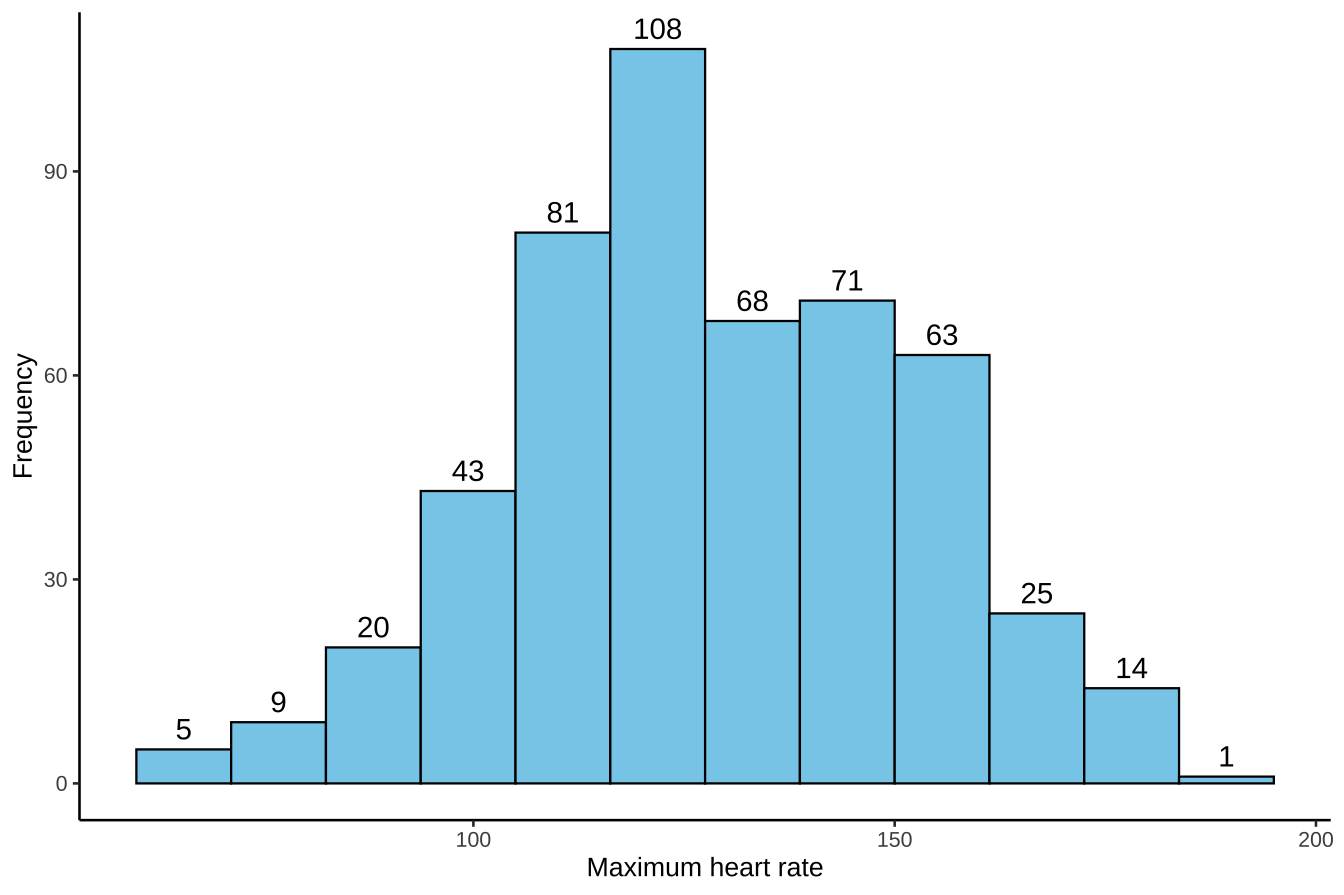
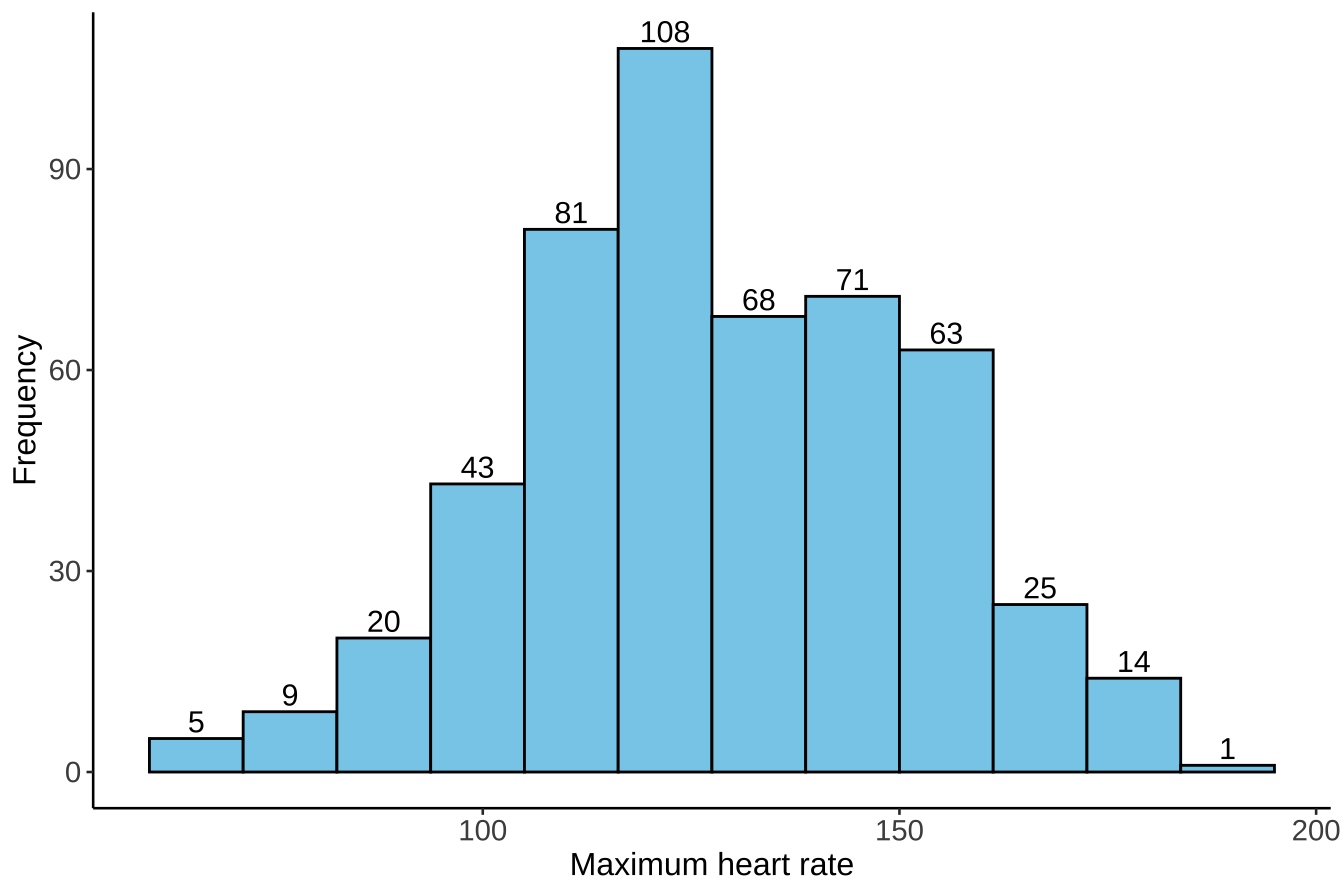
commit

diff --git a/_book/quat-data-stat-desc.html b/_book/quat-data-stat-desc.html
@@ -107,6 +107,35 @@ pre > code.sourceCode > span > a:first-child::before { text-decoration: underlin
 }</script>
 <style>html{ scroll-behavior: smooth; }</style>
 
+  <script src="https://polyfill.io/v3/polyfill.min.js?features=es6"></script>
+  <script src="https://cdn.jsdelivr.net/npm/mathjax@3/es5/tex-chtml-full.js" type="text/javascript"></script>
+
+<script type="text/javascript">
+const typesetMath = (el) => {
+  if (window.MathJax) {
+    // MathJax Typeset
+    window.MathJax.typeset([el]);
+  } else if (window.katex) {
+    // KaTeX Render
+    var mathElements = el.getElementsByClassName("math");
+    var macros = [];
+    for (var i = 0; i < mathElements.length; i++) {
+      var texText = mathElements[i].firstChild;
+      if (mathElements[i].tagName == "SPAN") {
+        window.katex.render(texText.data, mathElements[i], {
+          displayMode: mathElements[i].classList.contains('display'),
+          throwOnError: false,
+          macros: macros,
+          fleqn: false
+        });
+      }
+    }
+  }
+}
+window.Quarto = {
+  typesetMath
+};
+</script>
 
 </head>
 
@@ -284,7 +313,7 @@ pre > code.sourceCode > span > a:first-child::before { text-decoration: underlin
   <li><a href="#measures-of-dispersion" id="toc-measures-of-dispersion" class="nav-link" data-scroll-target="#measures-of-dispersion"><span class="header-section-number">2.5</span> Measures of dispersion</a>
   <ul class="collapse">
   <li><a href="#range" id="toc-range" class="nav-link" data-scroll-target="#range"><span class="header-section-number">2.5.1</span> Range</a></li>
-  <li><a href="#quartile-and-percentile" id="toc-quartile-and-percentile" class="nav-link" data-scroll-target="#quartile-and-percentile"><span class="header-section-number">2.5.2</span> <strong>Quartile</strong> and <strong>percentile</strong></a></li>
+  <li><a href="#interquartile-range-iqr" id="toc-interquartile-range-iqr" class="nav-link" data-scroll-target="#interquartile-range-iqr"><span class="header-section-number">2.5.2</span> Interquartile Range (IQR)</a></li>
   <li><a href="#variance" id="toc-variance" class="nav-link" data-scroll-target="#variance"><span class="header-section-number">2.5.3</span> Variance</a></li>
   <li><a href="#standard-deviation" id="toc-standard-deviation" class="nav-link" data-scroll-target="#standard-deviation"><span class="header-section-number">2.5.4</span> <strong>Standard deviation</strong></a></li>
   <li><a href="#变异系数" id="toc-变异系数" class="nav-link" data-scroll-target="#变异系数"><span class="header-section-number">2.5.5</span> 变异系数</a></li>
@@ -522,22 +551,26 @@ pre > code.sourceCode > span > a:first-child::before { text-decoration: underlin
 <span id="cb11-3"><a href="#cb11-3" aria-hidden="true" tabindex="-1"></a>    <span class="at">fill =</span> <span class="st">"skyblue"</span>, </span>
 <span id="cb11-4"><a href="#cb11-4" aria-hidden="true" tabindex="-1"></a>    <span class="at">stat =</span> <span class="st">"bin"</span>,</span>
 <span id="cb11-5"><a href="#cb11-5" aria-hidden="true" tabindex="-1"></a>    <span class="at">color =</span> <span class="st">"black"</span>,</span>
-<span id="cb11-6"><a href="#cb11-6" aria-hidden="true" tabindex="-1"></a>    <span class="at">linewidth =</span> <span class="fl">0.4</span>,</span>
-<span id="cb11-7"><a href="#cb11-7" aria-hidden="true" tabindex="-1"></a>    <span class="at">breaks =</span> breaks,</span>
-<span id="cb11-8"><a href="#cb11-8" aria-hidden="true" tabindex="-1"></a>    <span class="at">closed =</span> <span class="st">"left"</span></span>
-<span id="cb11-9"><a href="#cb11-9" aria-hidden="true" tabindex="-1"></a>  ) <span class="sc">+</span></span>
-<span id="cb11-10"><a href="#cb11-10" aria-hidden="true" tabindex="-1"></a>  <span class="fu">stat_bin</span>(</span>
-<span id="cb11-11"><a href="#cb11-11" aria-hidden="true" tabindex="-1"></a>    <span class="at">geom =</span> <span class="st">"text"</span>, </span>
-<span id="cb11-12"><a href="#cb11-12" aria-hidden="true" tabindex="-1"></a>    <span class="fu">aes</span>(<span class="at">label =</span> <span class="fu">after_stat</span>(count)),</span>
-<span id="cb11-13"><a href="#cb11-13" aria-hidden="true" tabindex="-1"></a>    <span class="at">breaks =</span> breaks, </span>
-<span id="cb11-14"><a href="#cb11-14" aria-hidden="true" tabindex="-1"></a>    <span class="at">closed =</span> <span class="st">"left"</span>,</span>
-<span id="cb11-15"><a href="#cb11-15" aria-hidden="true" tabindex="-1"></a>    <span class="at">vjust =</span> <span class="sc">-</span> <span class="fl">0.5</span></span>
+<span id="cb11-6"><a href="#cb11-6" aria-hidden="true" tabindex="-1"></a>    <span class="at">breaks =</span> breaks,</span>
+<span id="cb11-7"><a href="#cb11-7" aria-hidden="true" tabindex="-1"></a>    <span class="at">closed =</span> <span class="st">"left"</span></span>
+<span id="cb11-8"><a href="#cb11-8" aria-hidden="true" tabindex="-1"></a>  ) <span class="sc">+</span></span>
+<span id="cb11-9"><a href="#cb11-9" aria-hidden="true" tabindex="-1"></a>  <span class="fu">stat_bin</span>(</span>
+<span id="cb11-10"><a href="#cb11-10" aria-hidden="true" tabindex="-1"></a>    <span class="at">geom =</span> <span class="st">"text"</span>, </span>
+<span id="cb11-11"><a href="#cb11-11" aria-hidden="true" tabindex="-1"></a>    <span class="fu">aes</span>(<span class="at">label =</span> <span class="fu">after_stat</span>(count)),</span>
+<span id="cb11-12"><a href="#cb11-12" aria-hidden="true" tabindex="-1"></a>    <span class="at">breaks =</span> breaks, </span>
+<span id="cb11-13"><a href="#cb11-13" aria-hidden="true" tabindex="-1"></a>    <span class="at">closed =</span> <span class="st">"left"</span>,</span>
+<span id="cb11-14"><a href="#cb11-14" aria-hidden="true" tabindex="-1"></a>    <span class="at">size =</span> <span class="dv">4</span>,</span>
+<span id="cb11-15"><a href="#cb11-15" aria-hidden="true" tabindex="-1"></a>    <span class="at">vjust =</span> <span class="sc">-</span> <span class="fl">0.3</span></span>
 <span id="cb11-16"><a href="#cb11-16" aria-hidden="true" tabindex="-1"></a>  ) <span class="sc">+</span></span>
 <span id="cb11-17"><a href="#cb11-17" aria-hidden="true" tabindex="-1"></a>  <span class="fu">labs</span>(<span class="at">x =</span> <span class="st">"Maximum heart rate"</span>, <span class="at">y =</span> <span class="st">"Frequency"</span>) <span class="sc">+</span></span>
 <span id="cb11-18"><a href="#cb11-18" aria-hidden="true" tabindex="-1"></a>  <span class="fu">theme</span>(</span>
-<span id="cb11-19"><a href="#cb11-19" aria-hidden="true" tabindex="-1"></a>    <span class="at">panel.background =</span> <span class="fu">element_blank</span>(),        </span>
-<span id="cb11-20"><a href="#cb11-20" aria-hidden="true" tabindex="-1"></a>    <span class="at">axis.line =</span> <span class="fu">element_line</span>(<span class="at">color =</span> <span class="st">"black"</span>) </span>
-<span id="cb11-21"><a href="#cb11-21" aria-hidden="true" tabindex="-1"></a>  )</span></code><button title="Copy to Clipboard" class="code-copy-button"><i class="bi"></i></button></pre></div>
+<span id="cb11-19"><a href="#cb11-19" aria-hidden="true" tabindex="-1"></a>    <span class="at">axis.title.x =</span> <span class="fu">element_text</span>(<span class="at">size =</span> <span class="dv">12</span>), </span>
+<span id="cb11-20"><a href="#cb11-20" aria-hidden="true" tabindex="-1"></a>    <span class="at">axis.title.y =</span> <span class="fu">element_text</span>(<span class="at">size =</span> <span class="dv">12</span>), </span>
+<span id="cb11-21"><a href="#cb11-21" aria-hidden="true" tabindex="-1"></a>    <span class="at">axis.text.x =</span> <span class="fu">element_text</span>(<span class="at">size =</span> <span class="dv">11</span>),  </span>
+<span id="cb11-22"><a href="#cb11-22" aria-hidden="true" tabindex="-1"></a>    <span class="at">axis.text.y =</span> <span class="fu">element_text</span>(<span class="at">size =</span> <span class="dv">11</span>),</span>
+<span id="cb11-23"><a href="#cb11-23" aria-hidden="true" tabindex="-1"></a>    <span class="at">panel.background =</span> <span class="fu">element_blank</span>(),        </span>
+<span id="cb11-24"><a href="#cb11-24" aria-hidden="true" tabindex="-1"></a>    <span class="at">axis.line =</span> <span class="fu">element_line</span>(<span class="at">color =</span> <span class="st">"black"</span>) </span>
+<span id="cb11-25"><a href="#cb11-25" aria-hidden="true" tabindex="-1"></a>  )</span></code><button title="Copy to Clipboard" class="code-copy-button"><i class="bi"></i></button></pre></div>
 <div class="cell-output-display">
 <div>
 <figure class="figure">
@@ -550,10 +583,19 @@ pre > code.sourceCode > span > a:first-child::before { text-decoration: underlin
 </section>
 <section id="measures-of-central-tendency" class="level2" data-number="2.4">
 <h2 data-number="2.4" class="anchored" data-anchor-id="measures-of-central-tendency"><span class="header-section-number">2.4</span> Measures of central tendency</h2>
-<p>Central tendency provides a single value representing the center of the data.</p>
+<p>Central tendency is a statistical concept that refers to the measure of the center or typical value in a data set. It provides a summary of the data with a single value that represents the middle or average of the data. The most common measures of central tendency are:</p>
 <section id="mean" class="level3" data-number="2.4.1">
 <h3 data-number="2.4.1" class="anchored" data-anchor-id="mean"><span class="header-section-number">2.4.1</span> Mean</h3>
-<p><strong>例2-2</strong> 计算例2-1某医院138名正常成年女性的红细胞数的均数。</p>
+<p>The arithmetic average of all values. It’s calculated by summing all the values and dividing by the number of values.</p>
+<p>For a population:</p>
+<p><span class="math display">\[
+\mu = \frac{\sum X_i}{N}
+\]</span></p>
+<p>For a sample:</p>
+<p><span class="math display">\[
+\bar{X} = \frac{\sum X_i}{n}
+\]</span></p>
+<p>where <span class="math inline">\(X_i\)</span> represents each value, and <span class="math inline">\(N\)</span> and <span class="math inline">\(n\)</span> are the sizes of the population and sample, respectively.</p>
 <div class="cell">
 <div class="sourceCode cell-code" id="cb12"><pre class="sourceCode r code-with-copy"><code class="sourceCode r"><span id="cb12-1"><a href="#cb12-1" aria-hidden="true" tabindex="-1"></a>max_hr <span class="sc">|&gt;</span> </span>
 <span id="cb12-2"><a href="#cb12-2" aria-hidden="true" tabindex="-1"></a>  <span class="fu">pull</span>() <span class="sc">|&gt;</span> </span>
@@ -564,7 +606,12 @@ pre > code.sourceCode > span > a:first-child::before { text-decoration: underlin
 </section>
 <section id="median" class="level3" data-number="2.4.2">
 <h3 data-number="2.4.2" class="anchored" data-anchor-id="median"><span class="header-section-number">2.4.2</span> Median</h3>
-<p>计算例2-1某医院138名正常成年女性的红细胞数的中位数和四分位数：</p>
+<p>The middle value in a data set when the values are sorted in ascending order. If there is an even number of values, the median is the average of the two middle values. To find the median:</p>
+<ul>
+<li>Sort the data set.</li>
+<li>If the number of observations N is odd, the median is the middle value.</li>
+<li>If N is even, the median is the average of the two central values.</li>
+</ul>
 <div class="cell">
 <div class="sourceCode cell-code" id="cb13"><pre class="sourceCode r code-with-copy"><code class="sourceCode r"><span id="cb13-1"><a href="#cb13-1" aria-hidden="true" tabindex="-1"></a>max_hr <span class="sc">|&gt;</span> </span>
 <span id="cb13-2"><a href="#cb13-2" aria-hidden="true" tabindex="-1"></a>  <span class="fu">pull</span>() <span class="sc">|&gt;</span> </span>
@@ -575,65 +622,114 @@ pre > code.sourceCode > span > a:first-child::before { text-decoration: underlin
 </section>
 <section id="measures-of-dispersion" class="level2" data-number="2.5">
 <h2 data-number="2.5" class="anchored" data-anchor-id="measures-of-dispersion"><span class="header-section-number">2.5</span> Measures of dispersion</h2>
+<p>Dispersion or variability, describe the spread or dispersion of data points in a data set. They provide insight into how much individual data points differ from the central value (mean, median, etc.). Common measures of dispersion include:</p>
+<pre><code>
+3.  Standard Deviation:
+•   The square root of the variance, providing a measure of spread in the same units as the data.
+•   For a population:  \text{Standard Deviation} (\sigma) = \sqrt{\frac{1}{N} \sum_{i=1}^N (x_i - \mu)^2} 
+•   For a sample:  \text{Sample Standard Deviation} (s) = \sqrt{\frac{1}{n-1} \sum_{i=1}^n (x_i - \bar{x})^2} 
+4.  Interquartile Range (IQR):
+•   The range of the middle 50% of the data, calculated as the difference between the 75th percentile (Q3) and the 25th percentile (Q1).
+•   Formula:  \text{IQR} = Q3 - Q1 
+5.  Coefficient of Variation (CV):
+•   The ratio of the standard deviation to the mean, expressed as a percentage, useful for comparing variability between datasets with different units or scales.
+•   Formula:  \text{CV} = \frac{\sigma}{\mu} \times 100\% 
+•   where  \sigma  is the standard deviation and  \mu  is the mean.</code></pre>
 <p>while dispersion shows how much the data varies around this central point.</p>
-<p>以例2-1某医院138名正常成年女性的红细胞数为例，计算描述离散趋势的统计指标：</p>
 <section id="range" class="level3" data-number="2.5.1">
 <h3 data-number="2.5.1" class="anchored" data-anchor-id="range"><span class="header-section-number">2.5.1</span> Range</h3>
+<p>The difference between the maximum and minimum values in the data set.</p>
+<p><span class="math display">\[
+\text{range} = \text{max} - \text{min}
+\]</span></p>
 <div class="cell">
-<div class="sourceCode cell-code" id="cb14"><pre class="sourceCode r code-with-copy"><code class="sourceCode r"><span id="cb14-1"><a href="#cb14-1" aria-hidden="true" tabindex="-1"></a><span class="fu">range</span>(max_hr) <span class="sc">|&gt;</span> </span>
-<span id="cb14-2"><a href="#cb14-2" aria-hidden="true" tabindex="-1"></a>  <span class="fu">diff</span>()</span>
-<span id="cb14-3"><a href="#cb14-3" aria-hidden="true" tabindex="-1"></a><span class="co">#&gt; [1] 135</span></span></code><button title="Copy to Clipboard" class="code-copy-button"><i class="bi"></i></button></pre></div>
+<div class="sourceCode cell-code" id="cb15"><pre class="sourceCode r code-with-copy"><code class="sourceCode r"><span id="cb15-1"><a href="#cb15-1" aria-hidden="true" tabindex="-1"></a><span class="fu">range</span>(max_hr) <span class="sc">|&gt;</span> </span>
+<span id="cb15-2"><a href="#cb15-2" aria-hidden="true" tabindex="-1"></a>  <span class="fu">diff</span>()</span>
+<span id="cb15-3"><a href="#cb15-3" aria-hidden="true" tabindex="-1"></a><span class="co">#&gt; [1] 135</span></span></code><button title="Copy to Clipboard" class="code-copy-button"><i class="bi"></i></button></pre></div>
 </div>
 </section>
-<section id="quartile-and-percentile" class="level3" data-number="2.5.2">
-<h3 data-number="2.5.2" class="anchored" data-anchor-id="quartile-and-percentile"><span class="header-section-number">2.5.2</span> <strong>Quartile</strong> and <strong>percentile</strong></h3>
-<div class="cell">
-<div class="sourceCode cell-code" id="cb15"><pre class="sourceCode r code-with-copy"><code class="sourceCode r"><span id="cb15-1"><a href="#cb15-1" aria-hidden="true" tabindex="-1"></a>max_hr <span class="sc">|&gt;</span> </span>
-<span id="cb15-2"><a href="#cb15-2" aria-hidden="true" tabindex="-1"></a>  <span class="fu">pull</span>() <span class="sc">|&gt;</span> </span>
-<span id="cb15-3"><a href="#cb15-3" aria-hidden="true" tabindex="-1"></a>  <span class="fu">quantile</span>(<span class="at">probs =</span> <span class="fu">c</span>(<span class="fl">0.25</span>, <span class="fl">0.5</span>, <span class="fl">0.75</span>)) </span>
-<span id="cb15-4"><a href="#cb15-4" aria-hidden="true" tabindex="-1"></a><span class="co">#&gt;    25%    50%    75% </span></span>
-<span id="cb15-5"><a href="#cb15-5" aria-hidden="true" tabindex="-1"></a><span class="co">#&gt; 112.00 126.00 144.25</span></span></code><button title="Copy to Clipboard" class="code-copy-button"><i class="bi"></i></button></pre></div>
-</div>
-<p>In R, you can calculate the interquartile range (IQR) of a numeric variable using the <code>IQR()</code> function. Here’s how you can do it:</p>
+<section id="interquartile-range-iqr" class="level3" data-number="2.5.2">
+<h3 data-number="2.5.2" class="anchored" data-anchor-id="interquartile-range-iqr"><span class="header-section-number">2.5.2</span> Interquartile Range (IQR)</h3>
+<p>The range of the middle 50% of the data, calculated as the difference between the 75th percentile (Q3) and the 25th percentile (Q1).</p>
+<p><span class="math display">\[
+\text{IQR} = Q3 - Q1
+\]</span></p>
 <div class="cell">
 <div class="sourceCode cell-code" id="cb16"><pre class="sourceCode r code-with-copy"><code class="sourceCode r"><span id="cb16-1"><a href="#cb16-1" aria-hidden="true" tabindex="-1"></a>max_hr <span class="sc">|&gt;</span> </span>
 <span id="cb16-2"><a href="#cb16-2" aria-hidden="true" tabindex="-1"></a>  <span class="fu">pull</span>() <span class="sc">|&gt;</span> </span>
-<span id="cb16-3"><a href="#cb16-3" aria-hidden="true" tabindex="-1"></a>  <span class="fu">IQR</span>()</span>
-<span id="cb16-4"><a href="#cb16-4" aria-hidden="true" tabindex="-1"></a><span class="co">#&gt; [1] 32.25</span></span></code><button title="Copy to Clipboard" class="code-copy-button"><i class="bi"></i></button></pre></div>
+<span id="cb16-3"><a href="#cb16-3" aria-hidden="true" tabindex="-1"></a>  <span class="fu">quantile</span>(<span class="at">probs =</span> <span class="fu">c</span>(<span class="fl">0.25</span>, <span class="fl">0.75</span>)) <span class="sc">|&gt;</span> </span>
+<span id="cb16-4"><a href="#cb16-4" aria-hidden="true" tabindex="-1"></a>  kableExtra<span class="sc">::</span><span class="fu">kable</span>()</span></code><button title="Copy to Clipboard" class="code-copy-button"><i class="bi"></i></button></pre></div>
+<div class="cell-output-display">
+<table class="table table-sm table-striped small">
+<thead>
+<tr class="header">
+<th style="text-align: left;"></th>
+<th style="text-align: right;">x</th>
+</tr>
+</thead>
+<tbody>
+<tr class="odd">
+<td style="text-align: left;">25%</td>
+<td style="text-align: right;">112.00</td>
+</tr>
+<tr class="even">
+<td style="text-align: left;">75%</td>
+<td style="text-align: right;">144.25</td>
+</tr>
+</tbody>
+</table>
+</div>
+</div>
+<p>You can also use the <code>IQR()</code> function.</p>
+<div class="cell">
+<div class="sourceCode cell-code" id="cb17"><pre class="sourceCode r code-with-copy"><code class="sourceCode r"><span id="cb17-1"><a href="#cb17-1" aria-hidden="true" tabindex="-1"></a>max_hr <span class="sc">|&gt;</span> </span>
+<span id="cb17-2"><a href="#cb17-2" aria-hidden="true" tabindex="-1"></a>  <span class="fu">pull</span>() <span class="sc">|&gt;</span> </span>
+<span id="cb17-3"><a href="#cb17-3" aria-hidden="true" tabindex="-1"></a>  <span class="fu">IQR</span>()</span>
+<span id="cb17-4"><a href="#cb17-4" aria-hidden="true" tabindex="-1"></a><span class="co">#&gt; [1] 32.25</span></span></code><button title="Copy to Clipboard" class="code-copy-button"><i class="bi"></i></button></pre></div>
 </div>
 </section>
 <section id="variance" class="level3" data-number="2.5.3">
 <h3 data-number="2.5.3" class="anchored" data-anchor-id="variance"><span class="header-section-number">2.5.3</span> Variance</h3>
+<p>Measures the average squared deviation of each data point from the mean.</p>
+<p>For a population:</p>
+<p><span class="math display">\[
+\sigma^2 = \frac{1}{N} \sum_{i=1}^N (X_i - \mu)^2
+\]</span></p>
+<p>For a sample:</p>
+<p><span class="math display">\[
+S^2 = \frac{1}{n-1} \sum_{i=1}^n (X_i - \bar{X})^2
+\]</span></p>
+<p>where <span class="math inline">\(\mu\)</span> is the population mean, $\bar{X} $is the sample mean, <span class="math inline">\(X_i\)</span> represents each value, and <span class="math inline">\(N\)</span> and <span class="math inline">\(n\)</span> are are the sizes of the population and sample, respectively.</p>
 <div class="cell">
-<div class="sourceCode cell-code" id="cb17"><pre class="sourceCode r code-with-copy"><code class="sourceCode r"><span id="cb17-1"><a href="#cb17-1" aria-hidden="true" tabindex="-1"></a>max_hr <span class="sc">|&gt;</span> </span>
-<span id="cb17-2"><a href="#cb17-2" aria-hidden="true" tabindex="-1"></a>  <span class="fu">pull</span>() <span class="sc">|&gt;</span> </span>
-<span id="cb17-3"><a href="#cb17-3" aria-hidden="true" tabindex="-1"></a>  <span class="fu">var</span>()</span>
-<span id="cb17-4"><a href="#cb17-4" aria-hidden="true" tabindex="-1"></a><span class="co">#&gt; [1] 546.9482</span></span></code><button title="Copy to Clipboard" class="code-copy-button"><i class="bi"></i></button></pre></div>
+<div class="sourceCode cell-code" id="cb18"><pre class="sourceCode r code-with-copy"><code class="sourceCode r"><span id="cb18-1"><a href="#cb18-1" aria-hidden="true" tabindex="-1"></a>max_hr <span class="sc">|&gt;</span> </span>
+<span id="cb18-2"><a href="#cb18-2" aria-hidden="true" tabindex="-1"></a>  <span class="fu">pull</span>() <span class="sc">|&gt;</span> </span>
+<span id="cb18-3"><a href="#cb18-3" aria-hidden="true" tabindex="-1"></a>  <span class="fu">var</span>()</span>
+<span id="cb18-4"><a href="#cb18-4" aria-hidden="true" tabindex="-1"></a><span class="co">#&gt; [1] 546.9482</span></span></code><button title="Copy to Clipboard" class="code-copy-button"><i class="bi"></i></button></pre></div>
 </div>
 </section>
 <section id="standard-deviation" class="level3" data-number="2.5.4">
 <h3 data-number="2.5.4" class="anchored" data-anchor-id="standard-deviation"><span class="header-section-number">2.5.4</span> <strong>Standard deviation</strong></h3>
 <div class="cell">
-<div class="sourceCode cell-code" id="cb18"><pre class="sourceCode r code-with-copy"><code class="sourceCode r"><span id="cb18-1"><a href="#cb18-1" aria-hidden="true" tabindex="-1"></a>max_hr <span class="sc">|&gt;</span> </span>
-<span id="cb18-2"><a href="#cb18-2" aria-hidden="true" tabindex="-1"></a>  <span class="fu">pull</span>() <span class="sc">|&gt;</span> </span>
-<span id="cb18-3"><a href="#cb18-3" aria-hidden="true" tabindex="-1"></a>  <span class="fu">sd</span>()</span>
-<span id="cb18-4"><a href="#cb18-4" aria-hidden="true" tabindex="-1"></a><span class="co">#&gt; [1] 23.38692</span></span></code><button title="Copy to Clipboard" class="code-copy-button"><i class="bi"></i></button></pre></div>
+<div class="sourceCode cell-code" id="cb19"><pre class="sourceCode r code-with-copy"><code class="sourceCode r"><span id="cb19-1"><a href="#cb19-1" aria-hidden="true" tabindex="-1"></a>max_hr <span class="sc">|&gt;</span> </span>
+<span id="cb19-2"><a href="#cb19-2" aria-hidden="true" tabindex="-1"></a>  <span class="fu">pull</span>() <span class="sc">|&gt;</span> </span>
+<span id="cb19-3"><a href="#cb19-3" aria-hidden="true" tabindex="-1"></a>  <span class="fu">sd</span>()</span>
+<span id="cb19-4"><a href="#cb19-4" aria-hidden="true" tabindex="-1"></a><span class="co">#&gt; [1] 23.38692</span></span></code><button title="Copy to Clipboard" class="code-copy-button"><i class="bi"></i></button></pre></div>
 </div>
 </section>
 <section id="变异系数" class="level3" data-number="2.5.5">
 <h3 data-number="2.5.5" class="anchored" data-anchor-id="变异系数"><span class="header-section-number">2.5.5</span> 变异系数</h3>
 <div class="cell">
-<div class="sourceCode cell-code" id="cb19"><pre class="sourceCode r code-with-copy"><code class="sourceCode r"><span id="cb19-1"><a href="#cb19-1" aria-hidden="true" tabindex="-1"></a>mean <span class="ot">&lt;-</span> max_hr <span class="sc">|&gt;</span> </span>
-<span id="cb19-2"><a href="#cb19-2" aria-hidden="true" tabindex="-1"></a>  <span class="fu">pull</span>() <span class="sc">|&gt;</span> </span>
-<span id="cb19-3"><a href="#cb19-3" aria-hidden="true" tabindex="-1"></a>  <span class="fu">mean</span>()</span>
-<span id="cb19-4"><a href="#cb19-4" aria-hidden="true" tabindex="-1"></a></span>
-<span id="cb19-5"><a href="#cb19-5" aria-hidden="true" tabindex="-1"></a>sd <span class="ot">&lt;-</span> max_hr <span class="sc">|&gt;</span> </span>
-<span id="cb19-6"><a href="#cb19-6" aria-hidden="true" tabindex="-1"></a>  <span class="fu">pull</span>() <span class="sc">|&gt;</span> </span>
-<span id="cb19-7"><a href="#cb19-7" aria-hidden="true" tabindex="-1"></a>  <span class="fu">sd</span>()</span>
-<span id="cb19-8"><a href="#cb19-8" aria-hidden="true" tabindex="-1"></a></span>
-<span id="cb19-9"><a href="#cb19-9" aria-hidden="true" tabindex="-1"></a>(sd <span class="sc">/</span> mean <span class="sc">*</span> <span class="dv">100</span>) <span class="sc">|&gt;</span> </span>
-<span id="cb19-10"><a href="#cb19-10" aria-hidden="true" tabindex="-1"></a>  <span class="fu">round</span>(<span class="at">digits =</span> <span class="dv">1</span>)</span>
-<span id="cb19-11"><a href="#cb19-11" aria-hidden="true" tabindex="-1"></a><span class="co">#&gt; [1] 18.3</span></span></code><button title="Copy to Clipboard" class="code-copy-button"><i class="bi"></i></button></pre></div>
+<div class="sourceCode cell-code" id="cb20"><pre class="sourceCode r code-with-copy"><code class="sourceCode r"><span id="cb20-1"><a href="#cb20-1" aria-hidden="true" tabindex="-1"></a>mean <span class="ot">&lt;-</span> max_hr <span class="sc">|&gt;</span> </span>
+<span id="cb20-2"><a href="#cb20-2" aria-hidden="true" tabindex="-1"></a>  <span class="fu">pull</span>() <span class="sc">|&gt;</span> </span>
+<span id="cb20-3"><a href="#cb20-3" aria-hidden="true" tabindex="-1"></a>  <span class="fu">mean</span>()</span>
+<span id="cb20-4"><a href="#cb20-4" aria-hidden="true" tabindex="-1"></a></span>
+<span id="cb20-5"><a href="#cb20-5" aria-hidden="true" tabindex="-1"></a>sd <span class="ot">&lt;-</span> max_hr <span class="sc">|&gt;</span> </span>
+<span id="cb20-6"><a href="#cb20-6" aria-hidden="true" tabindex="-1"></a>  <span class="fu">pull</span>() <span class="sc">|&gt;</span> </span>
+<span id="cb20-7"><a href="#cb20-7" aria-hidden="true" tabindex="-1"></a>  <span class="fu">sd</span>()</span>
+<span id="cb20-8"><a href="#cb20-8" aria-hidden="true" tabindex="-1"></a></span>
+<span id="cb20-9"><a href="#cb20-9" aria-hidden="true" tabindex="-1"></a>(sd <span class="sc">/</span> mean <span class="sc">*</span> <span class="dv">100</span>) <span class="sc">|&gt;</span> </span>
+<span id="cb20-10"><a href="#cb20-10" aria-hidden="true" tabindex="-1"></a>  <span class="fu">round</span>(<span class="at">digits =</span> <span class="dv">1</span>)</span>
+<span id="cb20-11"><a href="#cb20-11" aria-hidden="true" tabindex="-1"></a><span class="co">#&gt; [1] 18.3</span></span></code><button title="Copy to Clipboard" class="code-copy-button"><i class="bi"></i></button></pre></div>
 </div>
 </section>
 </section>
@@ -641,11 +737,11 @@ pre > code.sourceCode > span > a:first-child::before { text-decoration: underlin
 <h2 data-number="2.6" class="anchored" data-anchor-id="medical-reference-range"><span class="header-section-number">2.6</span> Medical reference range</h2>
 <p>以例2-1某医院138名正常成年女性的红细胞数为例，确定其医学参考值范围：</p>
 <div class="cell">
-<div class="sourceCode cell-code" id="cb20"><pre class="sourceCode r code-with-copy"><code class="sourceCode r"><span id="cb20-1"><a href="#cb20-1" aria-hidden="true" tabindex="-1"></a>med_ref_range <span class="ot">&lt;-</span> <span class="fu">quantile</span>(<span class="fu">pull</span>(max_hr), <span class="at">probs =</span> <span class="fu">c</span>(<span class="fl">0.025</span>, <span class="fl">0.975</span>)) <span class="sc">|&gt;</span> </span>
-<span id="cb20-2"><a href="#cb20-2" aria-hidden="true" tabindex="-1"></a>  <span class="fu">round</span>(<span class="at">digits =</span> <span class="dv">3</span>) <span class="sc">|&gt;</span> </span>
-<span id="cb20-3"><a href="#cb20-3" aria-hidden="true" tabindex="-1"></a>  <span class="fu">print</span>()</span>
-<span id="cb20-4"><a href="#cb20-4" aria-hidden="true" tabindex="-1"></a><span class="co">#&gt;    2.5%   97.5% </span></span>
-<span id="cb20-5"><a href="#cb20-5" aria-hidden="true" tabindex="-1"></a><span class="co">#&gt;  82.000 173.325</span></span></code><button title="Copy to Clipboard" class="code-copy-button"><i class="bi"></i></button></pre></div>
+<div class="sourceCode cell-code" id="cb21"><pre class="sourceCode r code-with-copy"><code class="sourceCode r"><span id="cb21-1"><a href="#cb21-1" aria-hidden="true" tabindex="-1"></a>med_ref_range <span class="ot">&lt;-</span> <span class="fu">quantile</span>(<span class="fu">pull</span>(max_hr), <span class="at">probs =</span> <span class="fu">c</span>(<span class="fl">0.025</span>, <span class="fl">0.975</span>)) <span class="sc">|&gt;</span> </span>
+<span id="cb21-2"><a href="#cb21-2" aria-hidden="true" tabindex="-1"></a>  <span class="fu">round</span>(<span class="at">digits =</span> <span class="dv">3</span>) <span class="sc">|&gt;</span> </span>
+<span id="cb21-3"><a href="#cb21-3" aria-hidden="true" tabindex="-1"></a>  <span class="fu">print</span>()</span>
+<span id="cb21-4"><a href="#cb21-4" aria-hidden="true" tabindex="-1"></a><span class="co">#&gt;    2.5%   97.5% </span></span>
+<span id="cb21-5"><a href="#cb21-5" aria-hidden="true" tabindex="-1"></a><span class="co">#&gt;  82.000 173.325</span></span></code><button title="Copy to Clipboard" class="code-copy-button"><i class="bi"></i></button></pre></div>
 </div>
 <p>由上可知，正常成年女性红细胞数的95%医学参考值范围为: (82, 173.325)</p>
 
